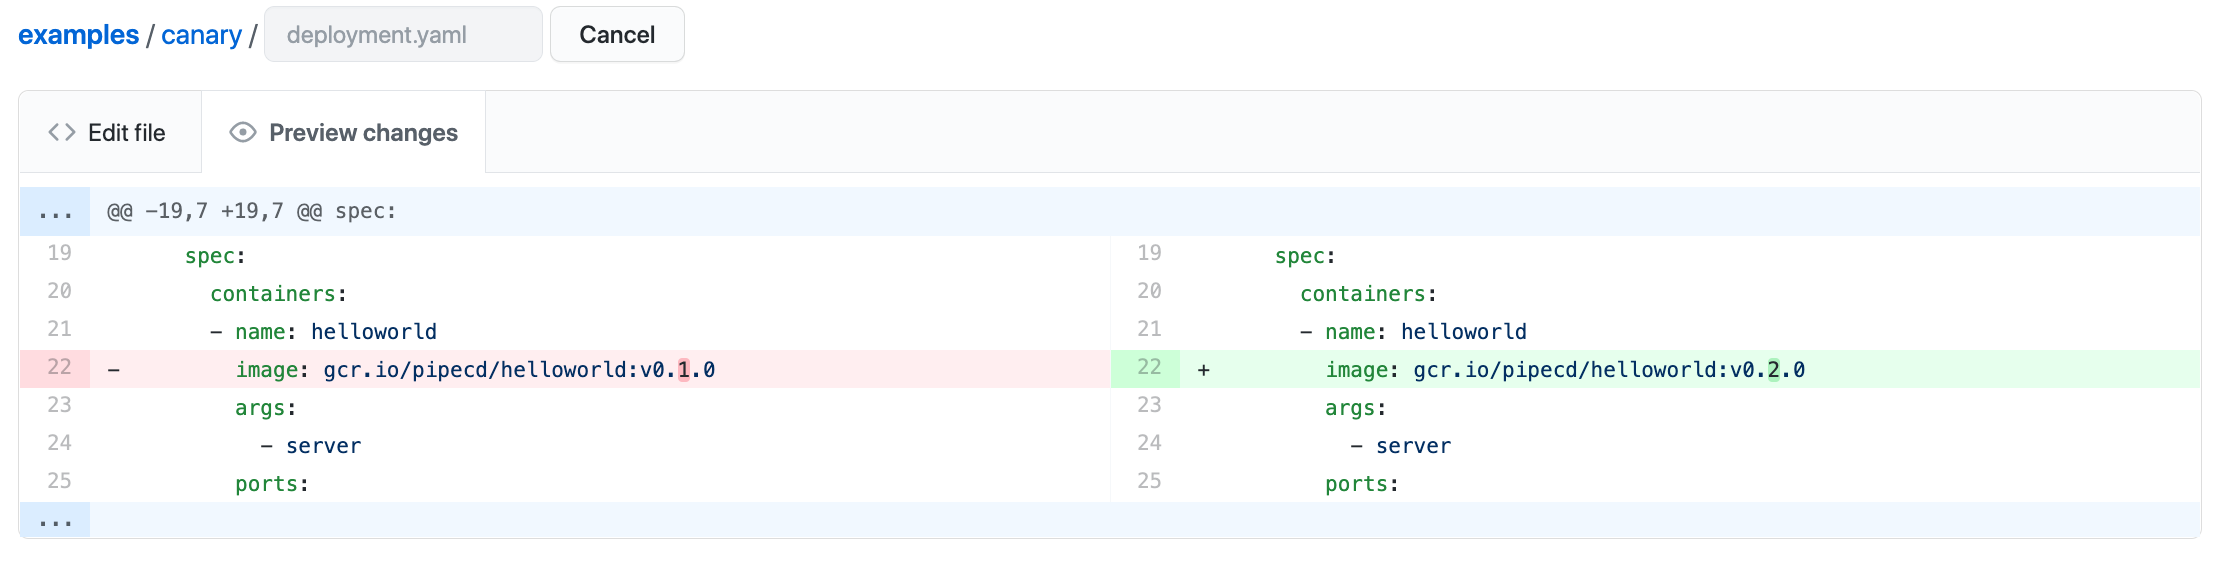
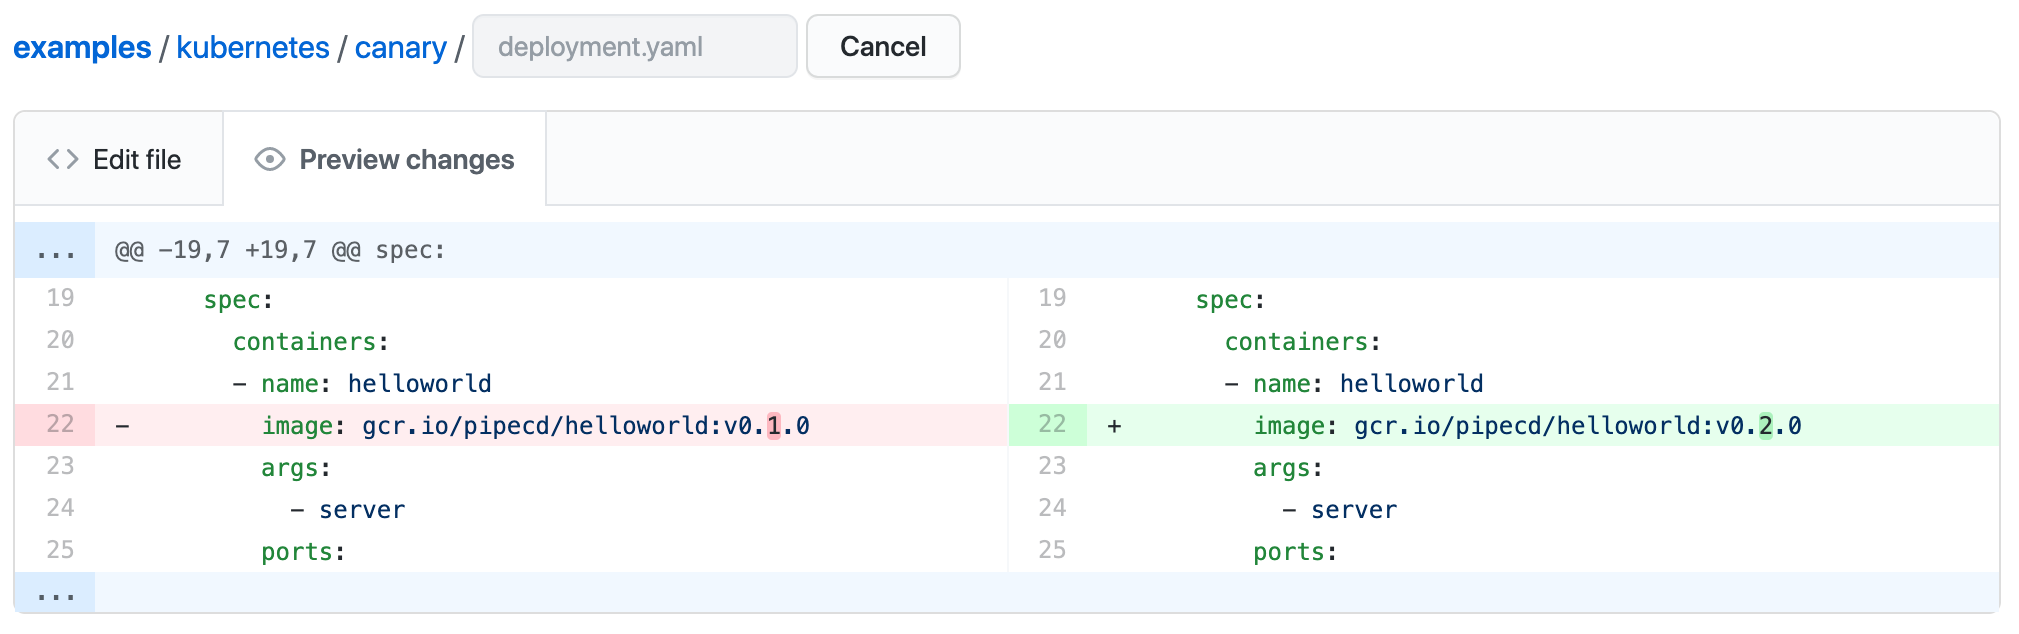
Fix

diff --git a/docs/content/en/docs/quickstart/_index.md b/docs/content/en/docs/quickstart/_index.md
@@ -9,35 +9,35 @@ description: >
 This guides you to install PipeCD in your kubernetes and deploy a `helloworld` application to that Kubernetes cluster.
 
 ### Prerequisites
-- Have a cluster running a compatible version of Kubernetes
+- Having a Kubernetes cluster
 - Installed [kubectl](https://kubernetes.io/docs/tasks/tools/install-kubectl/)
 - Installed [helm3](https://helm.sh/docs/intro/install/)
 - Forked the [Examples](https://github.com/pipe-cd/examples) repository
 
-### 1. Cloning pipe repository
+### 1. Cloning pipe-cd/manifests repository
 
 Navigate to the root of the repository once cloned.
 
 ```bash
 git clone https://github.com/pipe-cd/manifests.git
-cd pipe
+cd manifests
 ```
 
 ### 2. Installing control plane
 
 ```bash
-helm install pipecd ./manifests/pipecd --values ./quickstart/values.yaml
+helm install pipecd ./manifests/pipecd --values ./quickstart/values-control-plane.yaml
 ```
 
 ### 3. Accessing the PipeCD web
-PipeCD comes with an embedded web based UI.
-First up, you connect to the control-plane you just installed with kubectl port-forwarding:
+PipeCD comes with an embedded web-based UI.
+First up, using kubectl port-forward to expose the installed control-plane on your localhost:
 
 ```bash
 kubectl port-forward svc/pipecd 8080:443
 ```
 
-Point your web browser to [http://localhost:8080](http://localhost:8080) to login with static admin user.
+Point your web browser to [http://localhost:8080](http://localhost:8080) to login with the configured static admin account.
 
 ![](/images/quickstart-login.png)
 
@@ -55,7 +55,7 @@ Then you give the environment name and its description as shown below:
 
 
 ### 5. Installing a `piped`
-First up, you need to take a piped-id and a secret-key on the Web.
+Before running a piped, you have to register it on the web and take the generated ID and Key strings.
 
 Navigate to the `Piped` tab on the same page as before, click on the `Add` button. Then you enter as:
 
@@ -68,17 +68,16 @@ Be sure to keep a copy for later use.
 
 
 
-Open [`./quickstart/piped-config.yaml`](https://github.com/pipe-cd/pipe/blob/master/quickstart/piped-config.yaml) with your editor and:
-- replace `YOUR_USERNAME` with your git username
+Open [`./quickstart/values-piped.yaml`](https://github.com/pipe-cd/manifests/blob/master/quickstart/values-piped.yaml) with your editor and:
+- replace `FORKED_REPO_URL` with forked repository of [Examples](https://github.com/pipe-cd/examples), such as `https://github.com/foo/examples.git`
 - replace `YOUR_PIPED_ID` with the piped-id you have copied before
 
 You can complete the installation by running the following after replacing `YOUR_PIPED_SECRET_KEY` with what you just got:
 
 ```bash
 helm install piped ./manifests/piped \
-  --set args.insecure=true \
-  --set secret.pipedKey.data=YOUR_PIPED_SECRET_KEY \
-  --set-file config.data=./quickstart/piped-config.yaml
+  --values ./quickstart/values-piped.yaml \
+  --set secret.pipedKey.data=YOUR_PIPED_SECRET_KEY
 ```
 
 ### 6. Configuring a kubernetes application
@@ -88,14 +87,14 @@ Navigate to the `Application` page, click on the `Add` button. Then give as:
 
 While you can see the select box for the deployment config template, skip it at this point.
 
-After a bit, the first deployment would be complete automatically.
+After a bit, the first deployment would be complete automatically to sync the application to the state specified in the current Git commit.
 
 ![](/images/quickstart-first-deployment.png)
 
 ### 7. Let's deploy!
-Let's get started with deployment! All we have to do is to update the image tag.
+Let's get started with deployment! All you have to do is to make a PR to update the image tag, scale the replicas, or change the manifests.
 
-Open the `canary/deployment.yaml` under the forked examples repository, then change the tag from `v0.1.0` to `v0.2.0`.
+For instance, open the `kubernetes/canary/deployment.yaml` under the forked examples repository, then change the tag from `v0.1.0` to `v0.2.0`.
 
 ![](/images/quickstart-update-image-tag.png)
 
